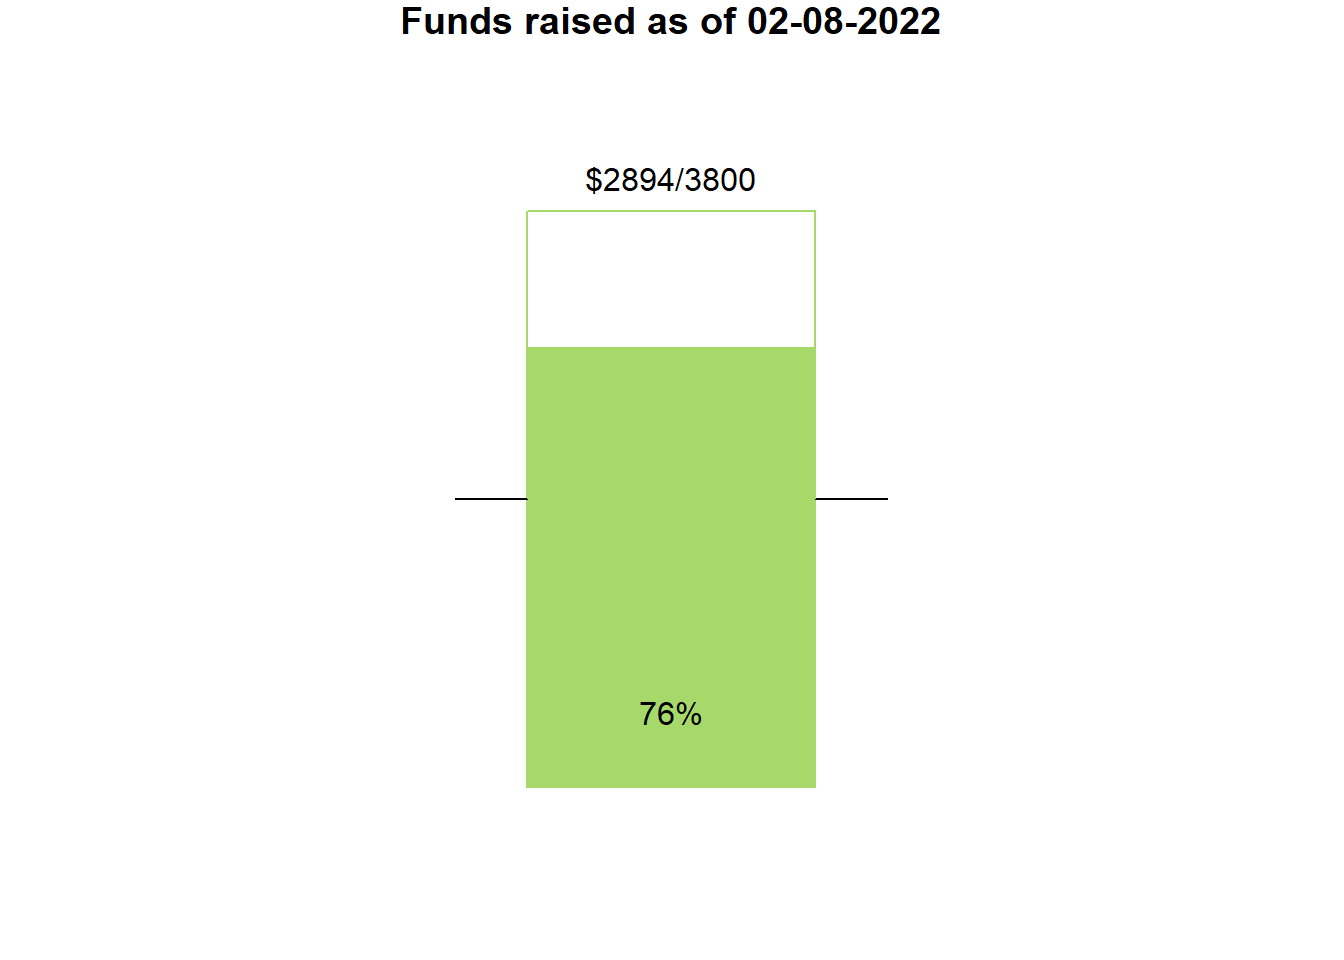
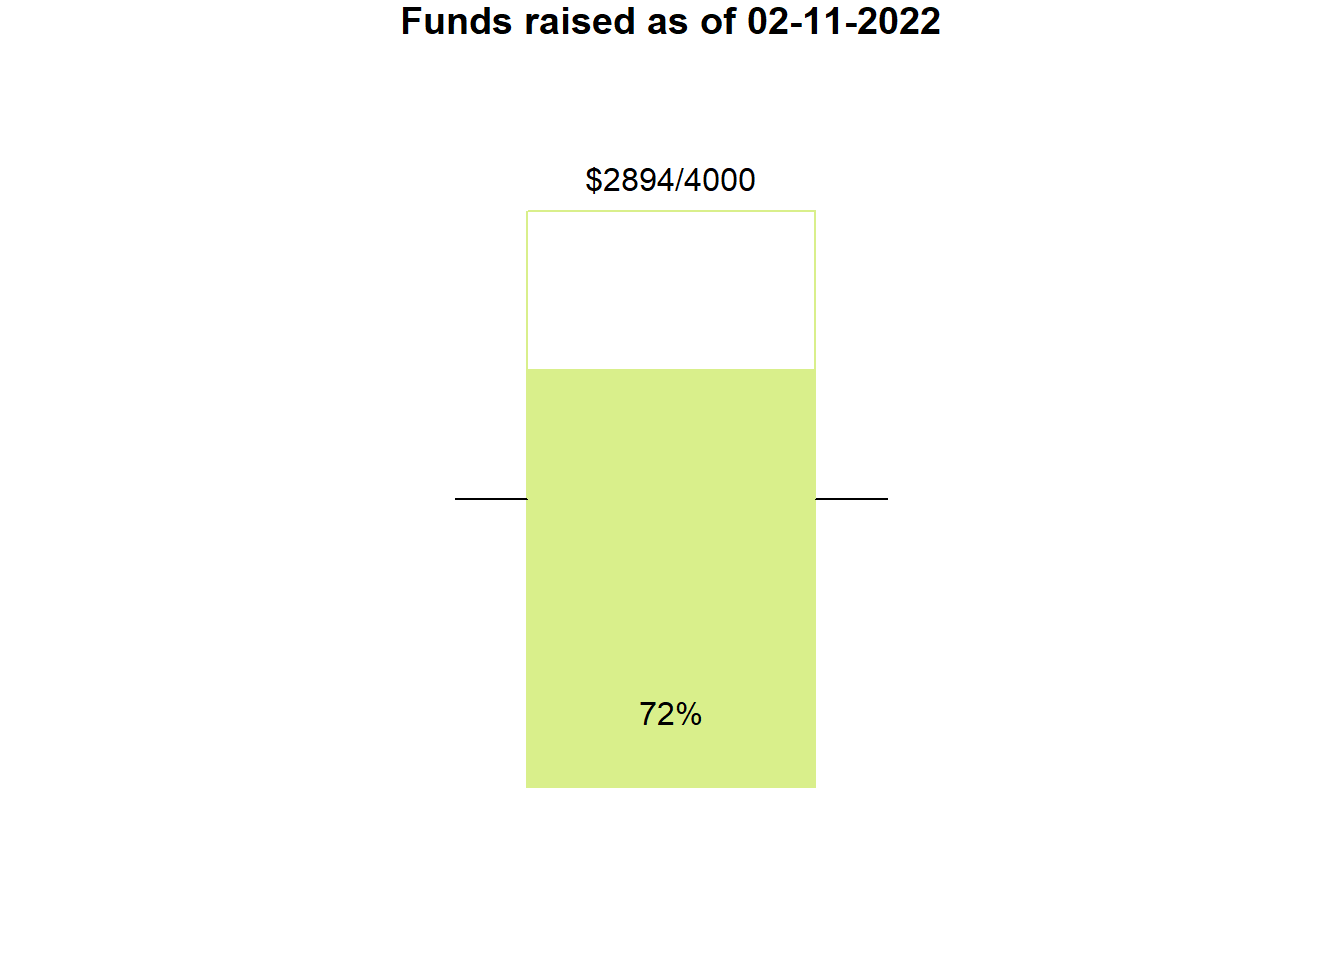
update sponsors

Changed region(s): [[0.375, 0.3438, 0.625, 0.8438], [0.5, 0.1562, 0.5312, 0.2188], [0.5938, 0.0, 0.625, 0.0312]]

diff --git a/content/fundraising.html b/content/fundraising.html
@@ -8,7 +8,10 @@ output: html_document
 
 <div id="financial-contributions" class="section level3">
 <h3>Financial Contributions</h3>
-<p>We are seeking $3,800 to supply food and event supplies. All monetary donations are tax-deductible. Any remaining funds go directly towards supporting student centered Data Science education events such as the outreach and training sessions found on the <a href="http://datascience.csuchico.edu">Chico State DSI</a> website.</p>
+<p>We are seeking $4,000 to supply food and event supplies. All monetary donations are tax-deductible. Any remaining funds go directly towards supporting student centered Data Science education events such as the outreach and training sessions found on the <a href="http://datascience.csuchico.edu">Chico State DSI</a> website.</p>
+<blockquote>
+<p>First time in 2022 we are fundraising for stretch goals of travel support for out of town students. We want to extend this event to students from all other colleges in the North State, CSU and community colleges but recogize that travel can be a barrier. We are seeking another $2400 to provide 12 students (2-3 teams) $200 in travel support for the weekend.</p>
+</blockquote>
 </div>
 <div class="row">
 <div class="col-md-6">

diff --git a/content/Sponsors.md b/content/Sponsors.md
@@ -2,17 +2,12 @@
 title= "2022 Sponsors"
 +++
 
-Our #CatsGaveBack $499 during Giving Day 2020! Thank you to all our amazing donors!
-
 
 ----
 
 ### Data Fest would not be able to happen without the support of the following people and organizations
 
-#### Want to help? 
-
-Please see our [fundraising](../fundraising/) page for information on how you can help. 
-
+Please see our [fundraising](../fundraising/) page for information on how you can support this high impact student activity. 
 
 ----
 
@@ -21,7 +16,7 @@ Please see our [fundraising](../fundraising/) page for information on how you ca
 ## Brontybyte Sponsors
 
 
-<table border="0" align="center", border-spacing:5em; border-collapse:separte;>
+<table border="0" align="center", border-spacing:5em; border-collapse:separate;>
 <colgroup>
 <col width="40%" />
 <col width="60%" />
@@ -30,10 +25,8 @@ Please see our [fundraising](../fundraising/) page for information on how you ca
 <tbody>
 
   <tr>
-    <td><img src="../img/clients/TFELogo.png" style="width:70%"></img></td>
-    <td>TThe world’s second-largest family-owned winery and fourth-largest overall, Trinchero Family Estates (TFE) comprises more than 50 award-winning wine and spirits brands distributed in nearly 50 countries around the globe. Founded in 1948—when Italian immigrant Mario Trinchero brought his young family from New York City to Napa Valley and purchased an abandoned Prohibition-era winery called Sutter Home in St. Helena—Trinchero Family Estates has been an innovator for seven decades.
-
-Today, Trinchero Family Estates remains deeply rooted in Napa Valley, encompassing a broad portfolio of global offerings, including flagship brands Sutter Home Family Vineyards and Ménage à Trois; luxury brands Trinchero Napa Valley, Napa Cellars and Neyers Vineyards; partner brands Joel Gott Wines, Charles & Charles and Bieler Père et Fils; import brands Doña Paula, Angove Family Winemakers, Avissi Prosecco, Echo Bay, Finca Allende and Terras Gauda; and spirits brands Tres Agaves Tequila and Amador Whiskey. Learn more at <a href="www.tfewines.com">www.tfewines.com</a> </td>
+    <td><img src="" style="width:70%"></img></td>
+    <td></td>
   </tr>
   
 </tbody>
@@ -53,19 +46,6 @@ Today, Trinchero Family Estates remains deeply rooted in Napa Valley, encompassi
 
 <tbody>
 
-  <tr>
-    <td><img src="../img/clients/asa_logo.jpg" style="width:60%"></img></td>
-    <td>The American Statistical Association is the National coordinating organization of DataFest. 
-                        They work hard to get the most interesting data possible. 
-                        See more at <a href="http://www.amstat.org">http://www.amstat.org</a>. </td>
-  </tr>
-  
-  <tr><td height= "50"> </td> <td></td></tr>
-  
-  <tr>
-    <td><img src="../img/clients/math_logo.png" style="width:40%"></img></td>
-    <td>Chico State Math Club. Supporting students in their pursuit of mathematical sciences for over 20 years.</td>
-  </tr>
 
 </tbody>
 </table>
@@ -74,6 +54,7 @@ Today, Trinchero Family Estates remains deeply rooted in Napa Valley, encompassi
 
 ----
 --->
+
 
 ## Terabyte Sponsors
 
@@ -85,37 +66,42 @@ Today, Trinchero Family Estates remains deeply rooted in Napa Valley, encompassi
 
 <tbody>
 
+  <tr>
+    <td align="center" markdown="span"><img src="../img/clients/chico-alumni.jpg" style="width:30%"></img></td>
+    <td> Our #CatsGaveBack $499 during Giving Day 2020! Thank you to all our amazing donors!
+        <a href ="https://www.csuchico.edu/alumni/">https://www.csuchico.edu/alumni/</a></td>
+  </tr>
+  
+  <tr><td height= "50"> </td> <td></td></tr>
   
   <tr>
     <td align="center" markdown="span"><img src="../img/clients/chicostart.png" style="width:30%"></img></td>
-    <td>Supporting and enriching Northern California's Entrepreneurial Ecosystem and providing startups the resources they need to succeed. Our platform includes shared office amenities, mentoring, workshops, internships, tech talks, student to business projects, entrepreneurial events, think tanks, satellite office programs and anything else that helps our core mission of helping startups succeed. <a href ="https://chicostart.com/">https://chicostart.com/</a></td>
+    <td>Supporting and enriching Northern California's Entrepreneurial Ecosystem and providing startups 
+        the resources they need to succeed. Our platform includes shared office amenities, mentoring, 
+        workshops, internships, tech talks, student to business projects, entrepreneurial events, think tanks, 
+        satellite office programs and anything else that helps our core mission of helping startups succeed. 
+        <a href ="https://chicostart.com/">https://chicostart.com/</a></td>
   </tr>
   
-<!----
-
   <tr><td height= "50"> </td> <td></td></tr>
 
   <tr>
-    <td align="center" markdown="span"><img src="../img/clients/RConsortium_Vertical_Pantone.png" style="width:30%"></img></td>
-    <td>Supporting the R community, the R Foundation and organzations developing, maintaining, and distributing R software. 
-    The central mission of the R Consortium is to work with and provide support to the R Foundation and to the key organizations developing, maintaining, distributing and using R software through the identification, development and implementation of infrastructure projects. Learn more about them at <a href ="https://www.r-consortium.org/">https://www.r-consortium.org/</a>
-    </td>
+    <td align="center" markdown="span"><img src="../img/clients/CFE.png" style="width:30%"></img></td>
+    <td>The Center for Entrepreneurship is dedicated to providing students the resources, inspiration, support, 
+        and mentorship for entrepreneurially minded individuals from every school of thought. We seek to build 
+        a cohesive and collaborative interdisciplinary environment that brings together the resources of the 
+        university, community, and private sector in order to cultivate independent and inspired learners and 
+        doers that develop innovative ideas and launch valuable businesses. 
+        <a href ="https://www.csuchico.edu/cob/students/beyond-classroom/center-for-entrepreneurship/index.shtml">
+        https://www.csuchico.edu/cob/students/beyond-classroom/center-for-entrepreneurship/index.shtml</a></td>
   </tr>
-  
---->
   
 </tbody>
 </table>
   
 <p>
 
-<!---
-  <tr>
-    <td align="left" markdown="span"><img src="../img/clients/enloe.png" style="width:50%"></img></td>  
-    <td> Enloe Medical Center </td>
-  </tr>
 
---->
 ----
 
 ## Gigabyte Sponsors
@@ -138,31 +124,6 @@ Today, Trinchero Family Estates remains deeply rooted in Napa Valley, encompassi
          https://www.csuchico.edu/cob/students/beyond-classroom/cesir.shtml</a>. </td>
   </tr>
   
-<!---
-  <tr><td height= "50"> </td> <td></td></tr>
-  
-  <tr>
-    <td align="left" markdown="span"><img src="../img/clients/enloe.png" style="width:50%"></img></td>  
-    <td> Enloe Medical Center </td>
-  </tr>
-  
-  <tr><td height= "50"> </td> <td></td></tr>
-  
-  <tr>
-    <td align="left" markdown="span"><img src="../img/clients/pearson.png" style="width:50%"></img></td>  
-    <td> Pearson Educational Products </td>
-  </tr>
-  
-  <tr><td height= "50"> </td> <td></td></tr>
-
-  <tr>
-    <td align="center" markdown="span"><img src="../img/clients/pbs_logo.png" style="width:30%"></img></td>
-    <td>Employee owned lumberyard that has been serving home owners and contracters in Northern California since 1973. Learn what they have to offer at <a href="https://www.paylessbuildingsupply.com/">https://www.paylessbuildingsupply.com/</a>
-    </td>
-  </tr>
-  
---->
-
 
 </tbody>
 </table>
@@ -176,38 +137,23 @@ Today, Trinchero Family Estates remains deeply rooted in Napa Valley, encompassi
 
 ## Acknowledgements
 
-<!---
-
 <table border="0" align="center">
 <colgroup>
 <col width="40%" />
 <col width="60%" />
 </colgroup>
 
-<tbody>
-
-
-  <tr><td height= "50"> </td> <td></td></tr>
+  <tbody>
   
-  <tr>
-    <td align="center" markdown="span"><img src="../img/clients/StobleLogo.png" style="width:30%"></img></td>
-    <td>Stoble Coffee will be on site to help keep students caffinated throughout the event! Stoble is a transparent specialty coffee roaster in Chico, working to bring people and their ideas together. Currently under construction on a coffee shop and coworking space coming to downtown Chico this summer. Check out their coffee site <a href="https://www.stobleco.com/">https://www.stobleco.com/</a> and coworking site: <a href="https://www.stobleworkplace.com/">https://www.stobleworkplace.com/</a>
-    </td>
+   <tr>
+    <td><img src="../img/clients/asa_logo.jpg" style="width:60%"></img></td>
+    <td>The American Statistical Association is the National coordinating organization of DataFest. 
+        They work hard to get the most interesting data possible. 
+        See more at <a href="http://www.amstat.org">http://www.amstat.org</a>. </td>
   </tr>
   
-  <tr><td height= "50"> </td> <td></td></tr>
-  
- 
-
-</tbody>
+    
+  </tbody>
 </table>
-  
-  <br>
-  
 
-<tr>
-  <td align="center" markdown="span"><img src="../img/clients/asa_logo.jpg" alt="" border=3 height=100 width=100></img></td>  
-  <td> CSU, Chico Provost & Vice President for Academic Affairs <br />
-</td>
-</tr>
---->
+

diff --git a/content/_sponsors_old.md b/content/_sponsors_old.md
@@ -1,0 +1,47 @@
+# R Consortium
+  <tr>
+    <td align="center" markdown="span"><img src="../img/clients/RConsortium_Vertical_Pantone.png" style="width:30%"></img></td>
+    <td>Supporting the R community, the R Foundation and organzations developing, maintaining, and distributing R software. 
+    The central mission of the R Consortium is to work with and provide support to the R Foundation and to the key organizations developing, maintaining, distributing and using R software through the identification, development and implementation of infrastructure projects. Learn more about them at <a href ="https://www.r-consortium.org/">https://www.r-consortium.org/</a>
+    </td>
+  </tr>
+  
+# Enloe
+  <tr>
+    <td align="left" markdown="span"><img src="../img/clients/enloe.png" style="width:50%"></img></td>  
+    <td> Enloe Medical Center </td>
+  </tr>
+
+# Math Club
+  <tr>
+    <td><img src="../img/clients/math_logo.png" style="width:40%"></img></td>
+    <td>Chico State Math Club. Supporting students in their pursuit of mathematical sciences for over 20 years.</td>
+  </tr>
+  
+# Pearson
+  <tr>
+    <td align="left" markdown="span"><img src="../img/clients/pearson.png" style="width:50%"></img></td>  
+    <td> Pearson Educational Products </td>
+  </tr>
+  
+# Payless Building Supply
+  <tr>
+    <td align="center" markdown="span"><img src="../img/clients/pbs_logo.png" style="width:30%"></img></td>
+    <td>Employee owned lumberyard that has been serving home owners and contracters in Northern California since 1973. Learn what they have to offer at <a href="https://www.paylessbuildingsupply.com/">https://www.paylessbuildingsupply.com/</a>
+    </td>
+  </tr>
+  
+
+# Stoble
+  <tr>
+    <td align="center" markdown="span"><img src="../img/clients/StobleLogo.png" style="width:30%"></img></td>
+    <td>Stoble Coffee will be on site to help keep students caffinated throughout the event! Stoble is a transparent specialty coffee roaster in Chico, working to bring people and their ideas together. Currently under construction on a coffee shop and coworking space coming to downtown Chico this summer. Check out their coffee site <a href="https://www.stobleco.com/">https://www.stobleco.com/</a> and coworking site: <a href="https://www.stobleworkplace.com/">https://www.stobleworkplace.com/</a>
+    </td>
+  </tr>
+  
+# Provost
+<tr>
+  <td align="center" markdown="span"><img src="../img/clients/asa_logo.jpg" alt="" border=3 height=100 width=100></img></td>  
+  <td> CSU, Chico Provost & Vice President for Academic Affairs <br />
+</td>
+</tr>
